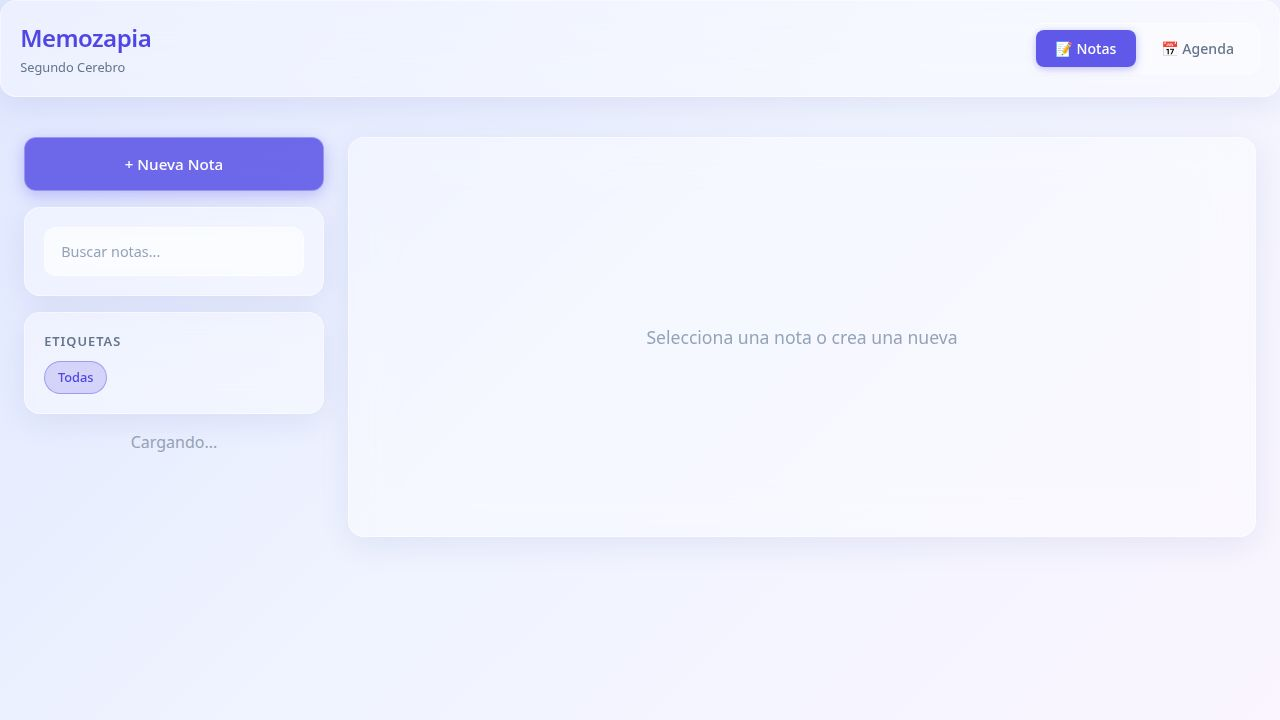
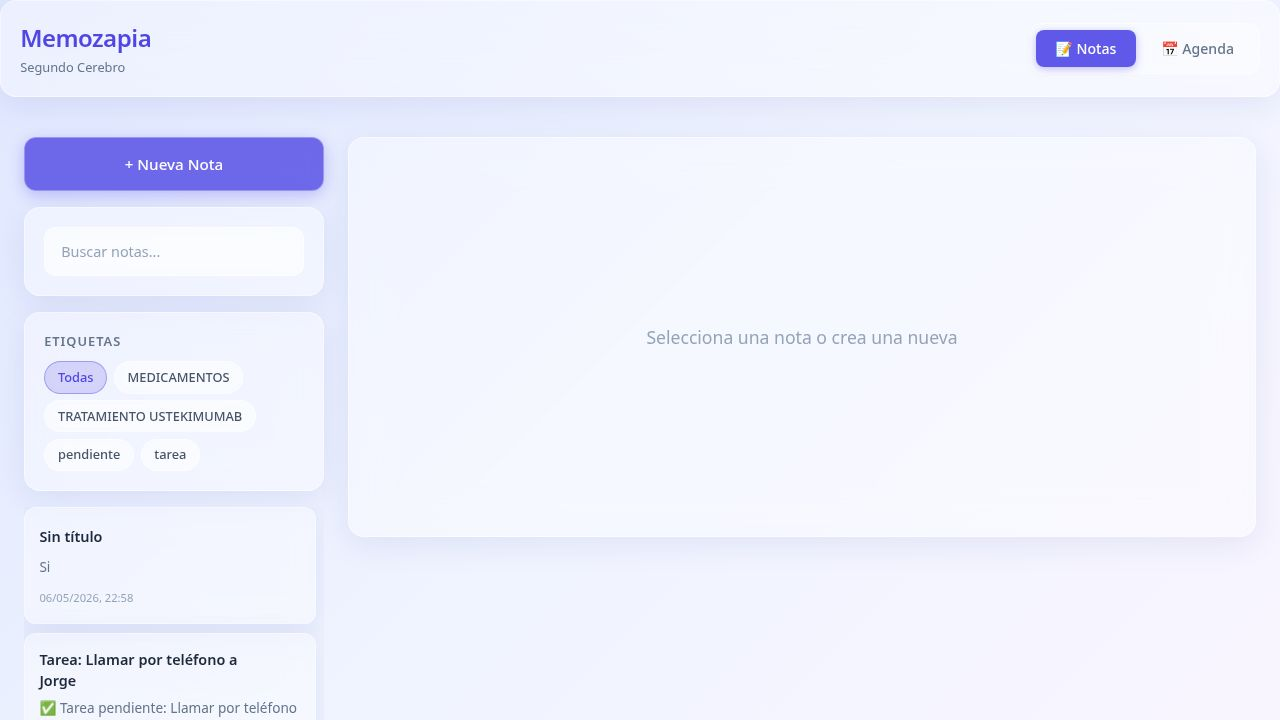
Update AI model and integrate user's OpenAI API key
Refactor `chatAI` function in `telegram-bot.ts` to prioritize `OPENAI_API_KEY` environment variable for API calls, falling back to `AI_INTEGRATIONS_OPENAI_API_KEY`. Updates the model to `gpt-4o` and adjusts `max_tokens`.

Replit-Commit-Author: Agent
Replit-Commit-Session-Id: 61627adb-65e8-465b-87fe-cac299beaaa9
Replit-Commit-Checkpoint-Type: full_checkpoint
Replit-Commit-Event-Id: 125b9520-5200-4704-a681-0fd6f5e36a3d
Replit-Commit-Screenshot-Url: https://storage.googleapis.com/screenshot-production-us-central1/52209fca-1db8-474d-ad49-a0f7ff9d983d/61627adb-65e8-465b-87fe-cac299beaaa9/GgaBNqQ
Replit-Helium-Checkpoint-Created: true

diff --git a/artifacts/api-server/src/telegram-bot.ts b/artifacts/api-server/src/telegram-bot.ts
@@ -160,9 +160,11 @@ async function ejecutarMarcador(marcador: Marcador, chatId: number): Promise<str
 
 // ── Llama a la IA con el historial completo ──────────────────────────────────
 async function chatAI(historial: Mensaje[]): Promise<string> {
-  const baseUrl = process.env["AI_INTEGRATIONS_OPENAI_BASE_URL"];
-  const apiKey = process.env["AI_INTEGRATIONS_OPENAI_API_KEY"];
-  if (!baseUrl || !apiKey) {
+  const apiKey = process.env["OPENAI_API_KEY"] || process.env["AI_INTEGRATIONS_OPENAI_API_KEY"];
+  const baseUrl = process.env["OPENAI_API_KEY"]
+    ? "https://api.openai.com/v1"
+    : (process.env["AI_INTEGRATIONS_OPENAI_BASE_URL"] ?? "");
+  if (!apiKey) {
     return "La IA no está configurada todavía.";
   }
   const res = await fetch(`${baseUrl}/chat/completions`, {
@@ -172,8 +174,8 @@ async function chatAI(historial: Mensaje[]): Promise<string> {
       Authorization: `Bearer ${apiKey}`,
     },
     body: JSON.stringify({
-      model: "gpt-4o-mini",
-      max_completion_tokens: 1024,
+      model: "gpt-4o",
+      max_tokens: 1024,
       messages: [{ role: "system", content: SYSTEM_PROMPT }, ...historial],
     }),
   });